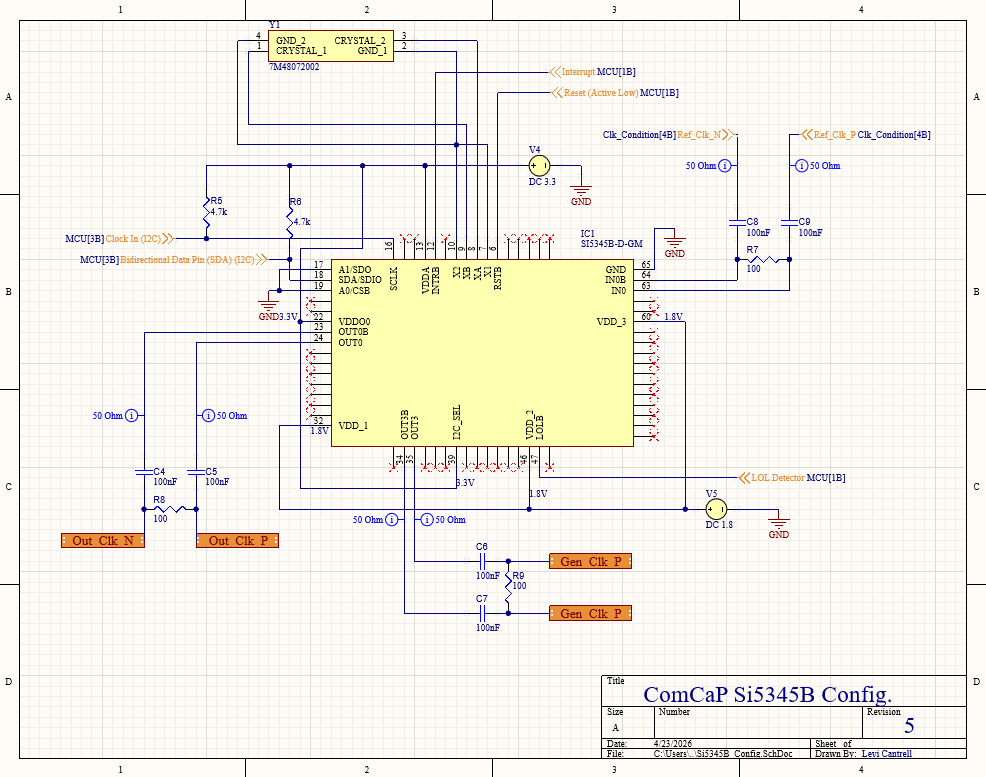
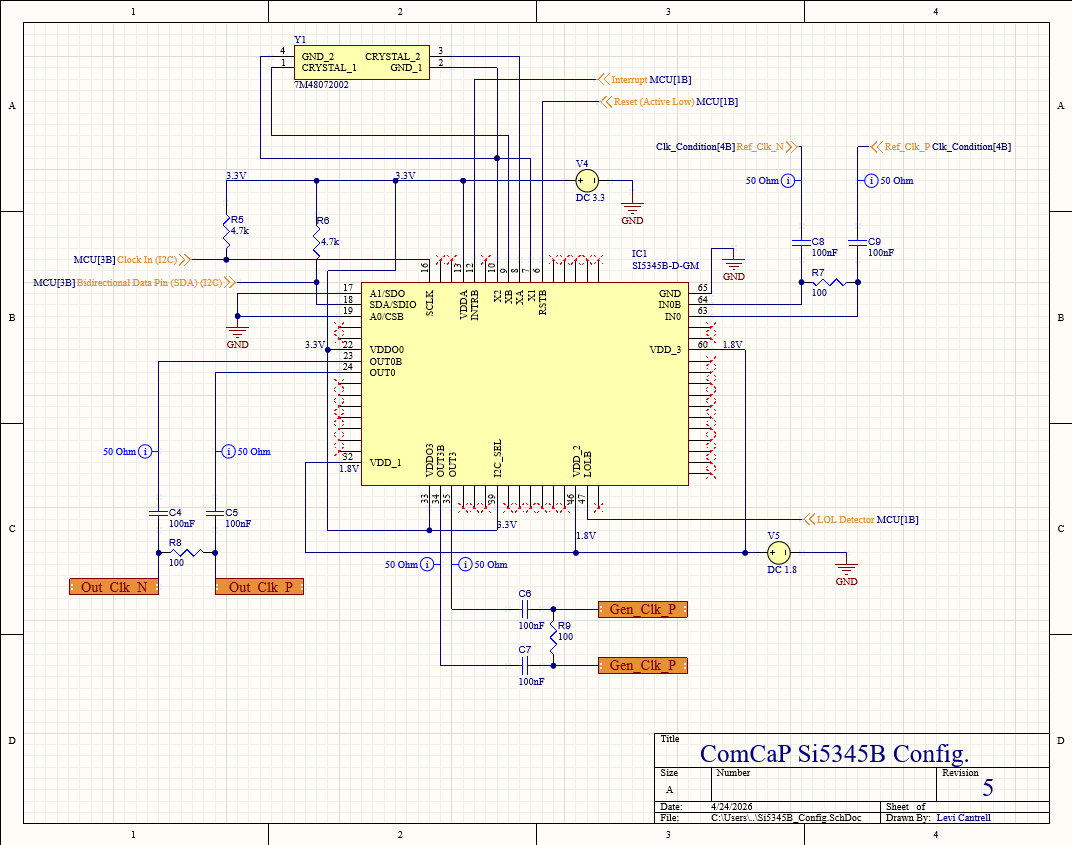
Flushed out Specifications and Constraints section, added references and sequenced

diff --git a/Reports/Detailed_Design.md b/Reports/Detailed_Design.md
@@ -9,37 +9,54 @@ The Clock Generation and Jitter Measurement subsystem is responsible for conditi
 
 ### Customer Specifications [4]:
 
-The Clock Generation and Jitter Measurement subsystem shall utilize the Skyworks Si5345B jitter cleaner as specified by Siemens Healthineers due to the ongoing utilization of the IC by the company. Additionally, jitter measurement targets have been specified for the ComCaP system to achieve a sub 1 ps cycle to cycle jitter for the 25 MHz output clock. The measurement for relative jitter measurements <finnish>
+The Clock Generation and Jitter Measurement subsystem shall utilize the Skyworks Si5345B jitter cleaner as specified by Siemens Healthineers due to the ongoing utilization of the IC by the company. Additionally, jitter measurement targets have been specified for the ComCaP system to achieve a sub 1 ps cycle to cycle jitter for the 25 MHz output clock. The measurement for relative jitter measurements will initially be contained within the ComCap system (i.e. one set of transceiver, cable, and receiver) between the introduced reference clock on the transceiver and the 25 MHZ output clock from this subsystem. Of greater interest to the customer are relative measurements between two separate but identical systems, which will require construction of at least one copy of the ComCap system. If this type of measurement is available, it shall replace the other. In either case, the goal is to obtain a 20-30 ps jitter obtained from the histogram of data generated during testing.
 
 - Shall use the Skyworks Si5345B jitter cleaner/clock synthesizer.
 
 - Shall produce a 25 MHz output clock signal with sub 1 ps cycle to cycle jitter.
 
-- Shall produce a 2.5 MHz reference clock with clean jitter measurements relative to <finnish>.
+- Shall produce a 25 MHz reference clock with 20-30ps jitter measurement relative to either the initial reference clock or another clock generated via a copy of the ComCaP system. 
 
 ### Component Constraints:
 
 The subsystem shall ensure clock signal integrity by conditioning the reference clock signal provided by the Bias-T subsystem prior to reaching the Si5345B IC. The input to the IC shall meet the over 300 V/μs slew rate requirement provided by the manufacturer [5] in order to minimize jitter and be recognizable for use with LVDS signal formatting to minimize noise associated with single ended formats [6]. Sizing constraints are also considered for the ICs involved in the formatting of the subsystem onto a Printed Circuit Board (PCB). Additionally, the configuration of the Si5345B IC via its onboard Non-Volatile Memory (NVM) is limited to two total alloted writes to program the chip into a set configuration determined by the volatile memory registers the chip uses to operate [5]. 
 
-- Shall convert the clock signal introduced to the system into a usable LVDS formatted digital clock signal with an over 300 V/μs slew rate as determined by the figure below, provided by the IC manufacturer Skyworks [5].
+- Shall convert the clock signal introduced to the system into a usable LVDS formatted digital clock signal with an over 300 V/μs slew rate as determined by the figure below, provided by the IC manufacturer Skyworks.
+
+    <img width="669" height="484" alt="Si5345B slew rate requirements" src="https://raw.githubusercontent.com/TnTech-ECE/S26_Team3_Siemens-Combined-Power-Signal/refs/heads/Clock_and_Jitter/Documentation/Images/SlewRate.png" />
+    [5]
+
+    Slew rate shall be determined via the following formula:
+
+    $SR = \frac{\Delta V}{\Delta t}$
 
 - Shall take into account sizing constraints of hardware used in construction of the PCB housing the subsystem.
 
-- Shall use alternative methods to write configuration settings onto the Si5345B volatile memory during development to avoid using the finite amount of NVM aboard the IC.
+    |    Component     |       Package Type      | Pin Count |    Body Size (mm)     |               Notes                            |
+    |------------------|-------------------------|-----------|-----------------------|----------------------------------------------- |
+    | ADA4899-1 [7]    | SOIC-8 / MSOP-8         | 8         | SOIC: 5 × 4 × ~1.5    | Available in multiple packages (MSOP smaller)  |
+    | ADCMP605 [8]     | LFCSP (QFN-style)       | 16        | 3 × 3 × ~0.75         | High-speed layout critical; exposed pad        |
+    | Si5345B [1]      | QFN (No-lead)           | 64        | 9 × 9 × ~0.85         | Exposed pad; requires good thermal grounding   |
+    | STM32G030K8T6 [9]| LQFP                    | 32        | 7 × 7 × ~1.4          | Standard leaded package; easier to hand solder |
 
-<img width="669" height="484" alt="Si5345B slew rate requirements" src="https://raw.githubusercontent.com/TnTech-ECE/S26_Team3_Siemens-Combined-Power-Signal/refs/heads/Clock_and_Jitter/Documentation/Images/SlewRate.png" />[5]
+
+- Shall use alternative methods to write configuration settings onto the Si5345B volatile memory during development to avoid using the finite amount of NVM aboard the IC.
 
 ### Standards
 
-JEDEC Standard 65B - This standard specifies that sample sizes pertaining to cycle to cycle jitter measurements shall be greater than or equal to 1,000 [3]. 
+JEDEC Standard 65B [3]: This standard specifies that sample sizes pertaining to cycle to cycle jitter measurements shall be greater than or equal to 1,000. 
+
+IEC 60601 [10]: The considerations for this subsystem pertaining to this set of medical equipment standards involve ensuring electrical isolation at the Bias-T interface, limiting leakage currents, maintaining safe operation under single fault conditions, and ensuring electromagnetic compatibility so that the clock generation does not interfere with or degrade the performance of other medical system components. However, Siemens Healthineers has maintained that the ComCaP team does not need to design the system in strict compliance with these standards as the system merely serves as a proof of concept for the company to expand on and the team has no access to the standards other than brief overviews. These standards will still be considered in the construction of the PCB the Clock Generation and Jitter Measurement subsystem resides on.
 
 ## Overview of Proposed Solution
+<finish>
+As mentioned in the Specifications and Constraints section of this document, the reference clock signal entering the subsystem will require alteration before insertion into the Si5345B IC. The IC expects the input signal to meet the over 300 V/μs slew rate requirement, but the maximum slew rate for the 2.5 MHz 0.1 V sine wave clock initially is found via the following equation:
 
-STM32G030K8T6
+SR<sub>max</sub> = 2πfV<sub>p</sub> = 2π(2.5 x 10<sup>6</sup>)(0.1) $\approx$ 1.57 V/μs
 
-The Si5345B chip shall ultimately utilize programmed onboard Non-Volatile Memory (NVM) that determines functionality of the chip and controls clock generation. However, a microcontroller shall be used during development to load registers for this chip manually via I2C due to a constraint of the chip allowing two total alloted NVM writes by the user []. A reset input and two additional outputs of the Si5345B, Interrupt and LoLb, shall be included during development for monitoring purposes. Interrupt is asserted when a change in the device is detected and LOLb (Loss of Lock) is asserted when phase locking is achieved.
+The Si5345B chip shall ultimately utilize programmed onboard Non-Volatile Memory (NVM) that determines functionality of the chip and controls clock generation. However, a microcontroller shall be used during development to load registers for this chip manually via I2C due to a constraint of the chip allowing two total alloted NVM writes by the user [5]. A reset input and two additional outputs of the Si5345B, Interrupt and LoLb, shall be included during development for monitoring purposes. Interrupt is asserted when a change in the device is detected and LOLb (Loss of Lock) is asserted when phase locking is achieved.
 
-The cycle to cycle jitter measurements for the subsystem shall utilize the following methodology [3]:
+The cycle to cycle jitter measurements for the subsystem shall utilize the following methodology []:
 
 1) Turn on the histogram feature for the oscilloscope, if available.
 
@@ -72,15 +89,19 @@ The IC Power Distribution subsystem interfaces with the Clock Generation and Jit
 
 ### Bias-T Interfacing
 
-The Bias-T subsystem interfaces with the Clock Generation and Jitter Measurement subsystem by sending the extracted AC sinusoidal reference clock signal for use in the Si5345B after signal conditioning. The expectation for this project is that there will be considerable noise introduced to this signal that justifies the use of the IC. There are no other interconnected signals or operations of any kind.
+The Bias-T subsystem interfaces with the Clock Generation and Jitter Measurement subsystem by sending the extracted AC sinusoidal reference clock signal for use in the Si5345B after signal conditioning. The expectation for this project is that there will be considerable noise introduced to this signal that justifies the use of the IC. There are no other interconnected signals or operations.
 
 ## Buildable Schematic 
 
 ### Signal Conditioning Circuit
 
-As mentioned in the Specifications and Constraints section of this document, the reference clock signal entering the subsystem will require alteration before insertion into the Si5345B IC. The IC expects the input to follow one of (insert formats for input). 
+The below circuit is designed to perform the signal conditioning required to introduce the reference clock signal into the Si5345B. First, the signal is biased to 2.5 V to ensure proper operation of the ADA4899-1 amplifier operating via a single 5 V source. The resistors Rf and Rg are gain control resistors and their values may change as needed during development. Once the signal has been amplified, it is introduced into the ADCMP560 comparator whose threshold is biased to the same 2.5 V. The Rh resistor above the comparator is used to control its hysteresis levels and is subject to adjustment as well. Finally, the comparator emits the LVDS formatted, differential, digital clock signal into the Si5345B input. 
 
 <img width="1045" height="820" alt="Signal Conditioning Circuit Schematic" src="https://raw.githubusercontent.com/TnTech-ECE/S26_Team3_Siemens-Combined-Power-Signal/refs/heads/Clock_and_Jitter/Documentation/Images/SigCon(update2).png" />
+
+### Si5345B Connections
+
+
 
 <img width="1045" height="820" alt="Si5345B Schematic" src="https://raw.githubusercontent.com/TnTech-ECE/S26_Team3_Siemens-Combined-Power-Signal/refs/heads/Clock_and_Jitter/Documentation/Images/Si5345B_config_2_4-23-26.png" />
 
@@ -119,8 +140,13 @@ As mentioned in the Specifications and Constraints section of this document, the
 
 [5] Skyworks, "Any-frequency, Any-output Jitter-Attenuators/Clock Multipliers Si5345, Si5344, Si5342 Family Reference Manual," Si5345, Si5344, Si5342 Rev. D Family Reference Manual, July 2016 Revised [September 2018] https://www.skyworksinc.com/-/media/Skyworks/SL/documents/public/reference-manuals/Si5345-44-42-D-RM.pdf
 
-[] STMicroelectronics, "Arm® Cortex®-M0+ 32-bit MCU, up to 64 KB Flash, 8 KB RAM,  2x USART, timers, ADC, comm. I/Fs, 2.0-3.6 V," STM32G030x6/x8 Data Sheet, June 2019 Revised [June 2025].
+[6] "LVDS: Interface technology of choice," EEtimes, https://www.eetimes.com/lvds-interface-technology-of-choice/ (accessed Apr. 11, 2026).
 
-[] Analog Devices, "Unity-Gain Stable, Ultralow Distortion, 1 nV/$\sqrt{Hz}$ Voltage Noise, High Speed Op Amp," ADA4899-1 Data Sheet, Oct. 2005 Revised [May 2016].
+[7] Analog Devices, "Unity-Gain Stable, Ultralow Distortion, 1 nV/√Hz Voltage Noise, High Speed Op Amp," ADA4899-1 Data Sheet, Oct. 2005 Revised [May 2016].
 
-[] Analog Devices, "Rail-to-Rail, Very Fast, 2.5 V to 5.5 V,  Single-Supply LVDS Comparators," ADCMP604/ADCMP605 Data Sheet, Oct. 2006 Revised [Jan. 2015].
+[8] Analog Devices, "Rail-to-Rail, Very Fast, 2.5 V to 5.5 V,  Single-Supply LVDS Comparators," ADCMP604/ADCMP605 Data Sheet, Oct. 2006 Revised [Jan. 2015].
+
+[9] STMicroelectronics, "Arm® Cortex®-M0+ 32-bit MCU, up to 64 KB Flash, 8 KB RAM,  2x USART, timers, ADC, comm. I/Fs, 2.0-3.6 V," STM32G030x6/x8 Data Sheet, June 2019 Revised [June 2025].
+
+[10] A. Grob, "Setting Standards: The IEC 60601 Series: Quick-Use Guide," Biomedical Instrumentation & Technology, vol. 54, (3), pp. 220-222, 2020. Available: https://ezproxy.tntech.edu/login?url=https://www.proquest.com/scholarly-journals/i-setting-standards-iec-60601-series-quick-use/docview/2414388374/se-2. DOI: https://doi.org/10.2345/0899-8205-54.3.220.
+
